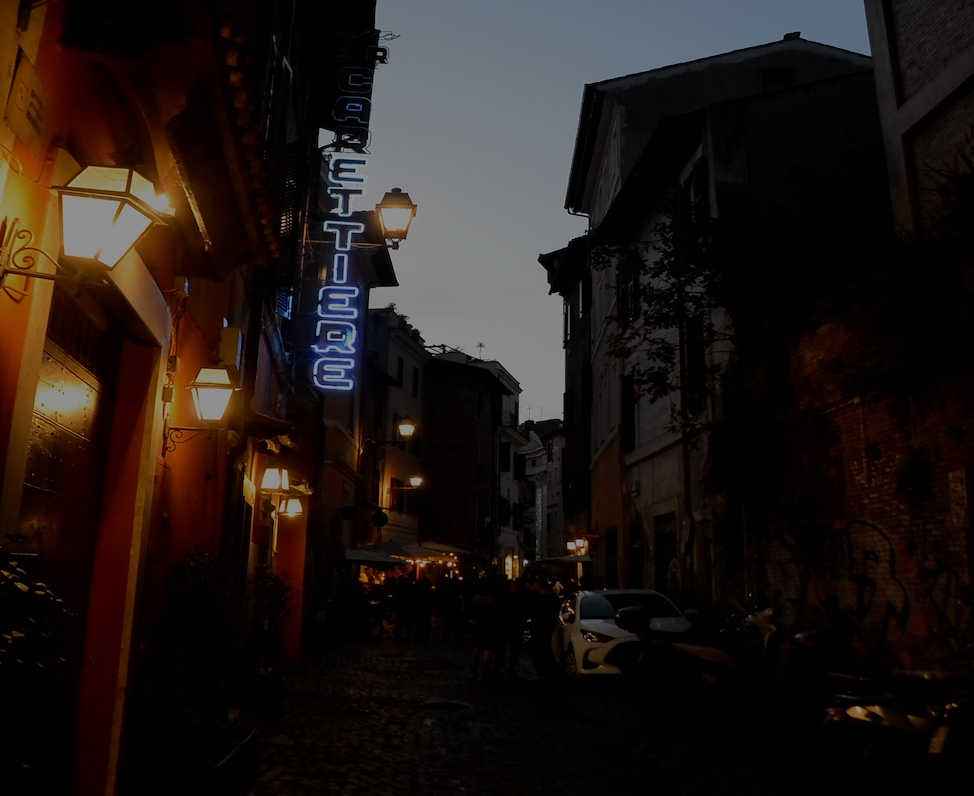
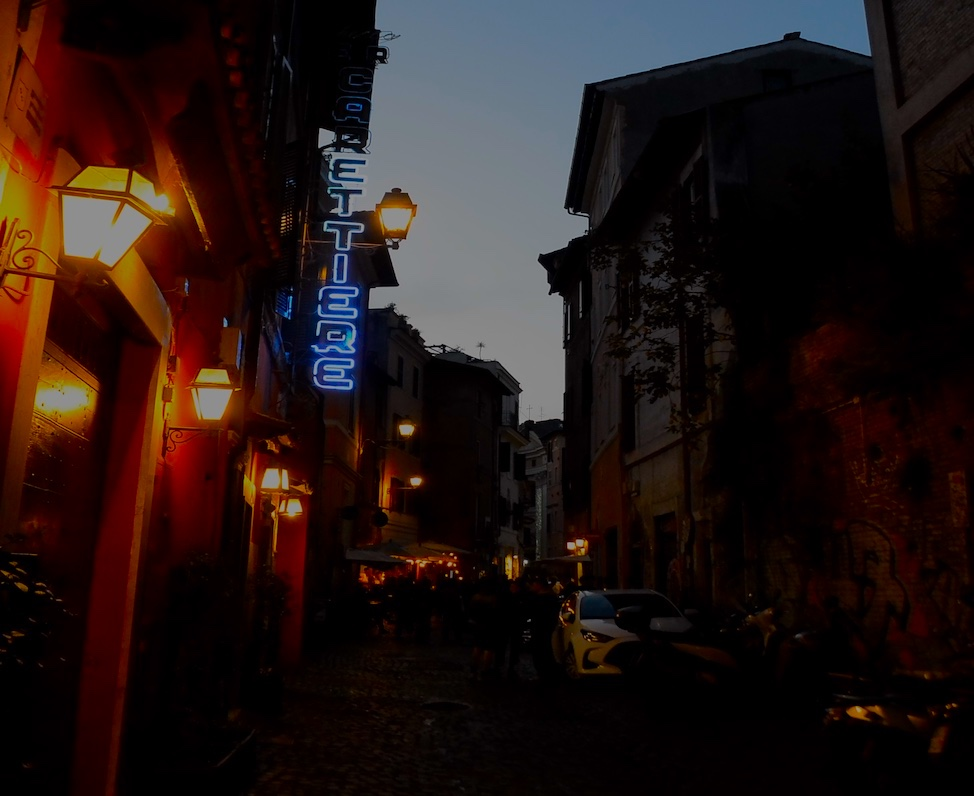
up

diff --git a/docs/posts.html b/docs/posts.html
@@ -222,7 +222,7 @@ window.Quarto = {
 
 <div class="quarto-listing quarto-listing-container-default" id="listing-listing">
 <div class="list quarto-listing-default">
-<div class="quarto-post image-right" data-index="0" data-categories="QW5lZGRvdG8=" data-listing-date-sort="1791410400000" data-listing-file-modified-sort="1791482471620" data-listing-date-modified-sort="NaN" data-listing-reading-time-sort="1" data-listing-word-count-sort="19">
+<div class="quarto-post image-right" data-index="0" data-categories="QW5lZGRvdG8=" data-listing-date-sort="1791410400000" data-listing-file-modified-sort="1791483523099" data-listing-date-modified-sort="NaN" data-listing-reading-time-sort="1" data-listing-word-count-sort="19">
 <div class="body">
 <h3 class="no-anchor listing-title">
 <a href="./posts/favorite_books/putchin1008.html" class="no-external">プッチンパンナコッタ / Putchin Panna Cotta</a>
